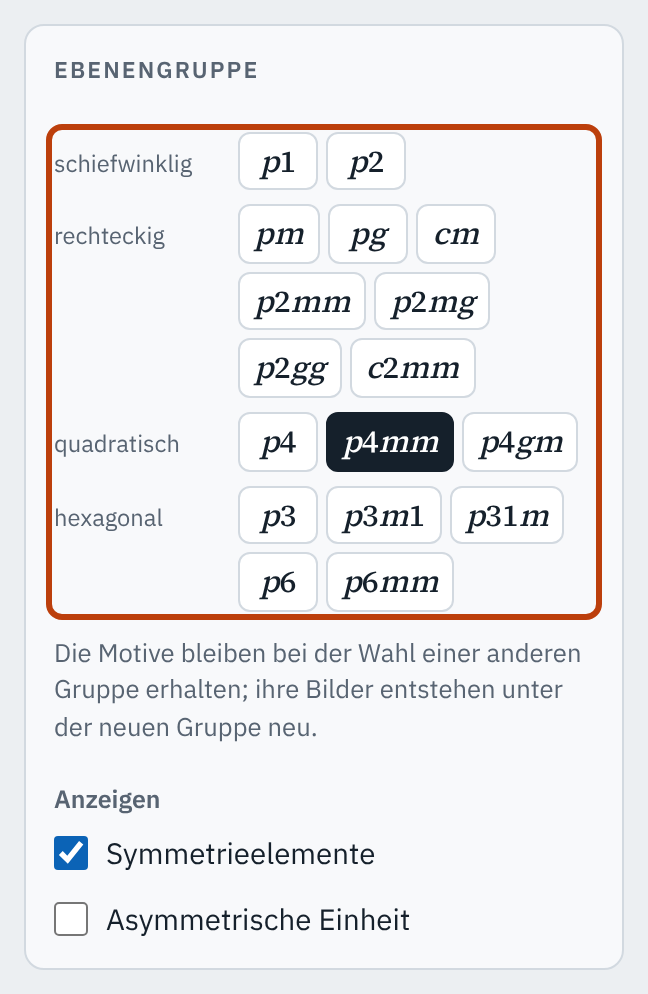
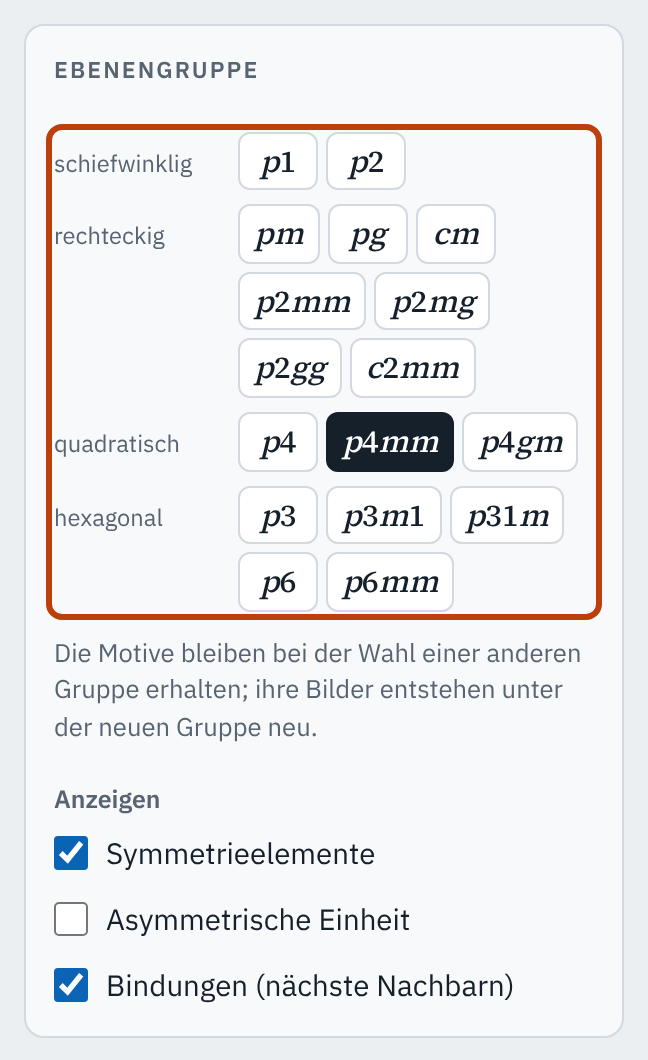
Bindungen (nächste Nachbarn) in „Muster entwerfen“ (Zu #136) (#148)
* Bindungen (nächste Nachbarn) in „Muster entwerfen“ (Zu #136)

Der Schalter aus „Gitter und Basis“ gilt auch im Entwurf: Linien zwischen
Atomen im kleinsten Abstand, über alle Bilder der Gruppe. Link-Schlüssel
`bind`, Startwert an; Übergang übernimmt die Wahl.

Claude-Session: https://claude.ai/code/session_01L8SY943PurePAwmH3HyLcT

* Übergang übernimmt die Wahl „Bindungen“ aus „Gitter und Basis“ (Review #148)

Claude-Session: https://claude.ai/code/session_01L8SY943PurePAwmH3HyLcT

---------

Changed region(s): [[0.0617, 0.0624, 0.9259, 0.9668], [0.0926, 0.4054, 0.2778, 0.5302], [0.0926, 0.2183, 0.2778, 0.2495]]

diff --git a/js/struktur-ui.js b/js/struktur-ui.js
@@ -84,8 +84,8 @@ export function strukturUI({ z, farben, aktualisieren, svgPunkt, coarse }) {
     const M = metrik(en());
     return en().basis.flatMap((e, k) => bilderMitOperation(g, M, e).map((b) => ({ ...b, k })));
   }
-  /** Gezeichnete Struktur: im Entwurf die Bahnen der Vertreter ausgeschrieben, ohne Bindungen (die gehören zur Struktur). */
-  const gezeigt = () => (istEntwurf() ? { ...en(), bindungen: false, basis: motive().map((m) => m.bild) } : { ...st(), basis: motive().map((m) => m.bild) });
+  /** Gezeichnete Struktur: im Entwurf die Bahnen der Vertreter ausgeschrieben (Bindungen wie in „Gitter und Basis“ zwischen den Atomen). */
+  const gezeigt = () => (istEntwurf() ? { ...en(), basis: motive().map((m) => m.bild) } : { ...st(), basis: motive().map((m) => m.bild) });
   /** Ergebnis, das statt der Bestimmung gilt: im Entwurf die gewählte Gruppe, sonst undefined (bestimmen). @returns {import('./bestimmung.js').Bestimmung | undefined} */
   const gewaehlteGruppe = () => (istEntwurf() ? festeBestimmung(en()) : undefined);
   /**
@@ -99,8 +99,8 @@ export function strukturUI({ z, farben, aktualisieren, svgPunkt, coarse }) {
     /** @type {Vec2} */
     const mitte = i !== null && basis[i] ? /** @type {Vec2} */ (basis[i].p.map(mod1)) : [0.5, 0.5];
     const gemeinsam = { farben: z.farben, fuell: z.aeFuell, lupe: z.lupe ? mitte : null };
-    // Entwurf: die Zelle ist die konventionelle (immer eingezeichnet), keine Bindungen
-    if (istEntwurf()) return { elemente: en().elemente, zelle: true, ae: en().ae, bindungen: false, ...gemeinsam };
+    // Entwurf: die Zelle ist die konventionelle (immer eingezeichnet)
+    if (istEntwurf()) return { elemente: en().elemente, zelle: true, ae: en().ae, bindungen: en().bindungen, ...gemeinsam };
     const s = st();
     return { elemente: s.elemente, zelle: s.zelle, ae: s.ae, bindungen: s.bindungen, ...gemeinsam };
   }
@@ -184,6 +184,7 @@ export function strukturUI({ z, farben, aktualisieren, svgPunkt, coarse }) {
     } else {
       eingabe('e-elemente').checked = en().elemente;
       eingabe('e-ae').checked = en().ae;
+      eingabe('e-bindungen').checked = en().bindungen;
     }
     eingabe('s-einrasten').checked = rasten;
     for (const [id, w] of [['s-werkzeug-verschieben', 'verschieben'], ['s-werkzeug-hinzufuegen', 'hinzufuegen'], ['s-werkzeug-zeichnen', 'zeichnen'], ['s-werkzeug-radieren', 'radieren']]) $(id).setAttribute('aria-pressed', String(werkzeug === w));
@@ -533,7 +534,7 @@ export function strukturUI({ z, farben, aktualisieren, svgPunkt, coarse }) {
     for (const [id, feld] of /** @type {[string, 'elemente' | 'zelle' | 'ae' | 'bindungen'][]} */ ([['s-elemente', 'elemente'], ['s-zelle', 'zelle'], ['s-ae', 'ae'], ['s-bindungen', 'bindungen']])) {
       $(id).addEventListener('change', () => { st()[feld] = eingabe(id).checked; aktualisieren(); });
     }
-    for (const [id, feld] of /** @type {[string, 'elemente' | 'ae'][]} */ ([['e-elemente', 'elemente'], ['e-ae', 'ae']])) {
+    for (const [id, feld] of /** @type {[string, 'elemente' | 'ae' | 'bindungen'][]} */ ([['e-elemente', 'elemente'], ['e-ae', 'ae'], ['e-bindungen', 'bindungen']])) {
       $(id).addEventListener('change', () => { en()[feld] = eingabe(id).checked; aktualisieren(); });
     }
     $('s-einrasten').addEventListener('change', () => { rasten = eingabe('s-einrasten').checked; aktualisieren(); });
@@ -620,7 +621,7 @@ export function strukturUI({ z, farben, aktualisieren, svgPunkt, coarse }) {
     $('s-weiter').addEventListener('click', () => {
       const u = uebernahme();
       if ('grund' in u) return;
-      z.entwurf = { ...u.struktur, striche: [], elemente: en().elemente, ae: en().ae }; verlauf = [];
+      z.entwurf = { ...u.struktur, striche: [], elemente: en().elemente, ae: en().ae, bindungen: st().bindungen }; verlauf = [];
       umstellung = u.umstellung; z.modus = 'entwurf'; werkzeug = 'verschieben';
       aktualisieren();
     });

diff --git a/js/zustand.js b/js/zustand.js
@@ -21,7 +21,7 @@ import { gruppe } from './symmetrie.js';
  * Entwurf im Modus „Muster entwerfen“ (#136): die Ebenengruppe (immer fest; ein eigenes Feld, nicht `gruppe` von
  * „Ebenengruppen“), das Gitter im System der Gruppe und je Bahn ein Vertreter (bahnen.js); elemente und ae sind
  * die Anzeigen von Tafel A.
- * @typedef {Gitter & { gruppe: string, basis: Basiseintrag[], striche: Strich[], elemente: boolean, ae: boolean }} EntwurfZustand
+ * @typedef {Gitter & { gruppe: string, basis: Basiseintrag[], striche: Strich[], elemente: boolean, ae: boolean, bindungen: boolean }} EntwurfZustand
  */
 /**
  * Zustand der App (Felder siehe startzustand()).
@@ -108,7 +108,7 @@ export const ENTWURF_START = 'p4mm';
 /** Entwurf im Modus „Muster entwerfen“: leer, in der Gruppe ENTWURF_START mit dem Startgitter ihres Systems. @param {string} [sym] @returns {EntwurfZustand} */
 export function entwurfStart(sym = ENTWURF_START) {
   const gi = GITTER_START[systemVon(sym)];
-  return { gruppe: sym, ba: gi.ba, gamma: gi.gamma, basis: [], striche: [], elemente: true, ae: false };
+  return { gruppe: sym, ba: gi.ba, gamma: gi.gamma, basis: [], striche: [], elemente: true, ae: false, bindungen: true };
 }
 
 /**
@@ -442,7 +442,7 @@ export function pruefeEntwurf(en) {
   const start = GITTER_START[systemVon(sym)];
   const ba = begrenzt(en.ba, STRUKTUR_BEREICH.ba) ?? start.ba; const gamma = begrenzt(en.gamma, STRUKTUR_BEREICH.gamma) ?? start.gamma;
   const gi = gitterZurGruppe(ba, gamma, sym) ?? start;
-  return { gruppe: sym, ba: gi.ba, gamma: grad(gi.gamma), basis: pruefeBasis(en.basis, bahnGewicht(sym)), striche: pruefeStriche(en.striche), elemente: en.elemente !== false, ae: en.ae === true };
+  return { gruppe: sym, ba: gi.ba, gamma: grad(gi.gamma), basis: pruefeBasis(en.basis, bahnGewicht(sym)), striche: pruefeStriche(en.striche), elemente: en.elemente !== false, ae: en.ae === true, bindungen: en.bindungen !== false };
 }
 
 /** @type {[string, StrukturSchalterfeld][]} */
@@ -469,7 +469,7 @@ function strukturHash(z, q) {
 
 /**
  * Link-Adresse im Modus „Muster entwerfen“: Gruppe (g), Gitter (ba, gamma nur, wo das System sie freigibt und sie vom
- * Startgitter abweichen), Vertreter (basis, wenn es welche gibt), Anzeigen (el, ae) und „Darstellung“.
+ * Startgitter abweichen), Vertreter (basis, wenn es welche gibt), Anzeigen (el, ae, bind) und „Darstellung“.
  * @param {Zustand} z @param {URLSearchParams} q
  */
 function entwurfHash(z, q) {
@@ -479,6 +479,7 @@ function entwurfHash(z, q) {
   if (en.basis.length) q.set('basis', basisText(en.basis));
   if (en.elemente !== s0.elemente) q.set('el', B(en.elemente));
   if (en.ae !== s0.ae) q.set('ae', B(en.ae));
+  if (en.bindungen !== s0.bindungen) q.set('bind', B(en.bindungen));
   const s = startzustand();
   for (const [k, f] of GEMEINSAME_SCHALTER) if (z[f] !== s[f]) q.set(k, B(z[f]));
   if (z.zoomB !== s.zoomB) q.set('zoom', kurz(z.zoomB, 3));
@@ -552,6 +553,7 @@ function hashLesen(z, hash) {
       if (q.has('basis')) en.basis = liesBasis(/** @type {string} */ (q.get('basis'))).slice(0, Math.floor(BASIS_GRENZE / bahnGewicht(en.gruppe)));
       if (q.has('el')) en.elemente = an(q.get('el'));
       if (q.has('ae')) en.ae = an(q.get('ae'));
+      if (q.has('bind')) en.bindungen = an(q.get('bind'));
     }
     for (const [k, f] of GEMEINSAME_SCHALTER) if (q.has(k)) z[f] = an(q.get(k));
     en.striche = pruefeStriche(z.entwurf?.striche);

diff --git a/js/hilfetexte.js b/js/hilfetexte.js
@@ -22,6 +22,7 @@ export const TIPS = {
   'e-picker': 'Ebenengruppe des Entwurfs wählen. Die Motive bleiben erhalten, ihre Bilder entstehen unter der neuen Gruppe neu; das Gitter bleibt, wenn es zum Kristallsystem passt, sonst gilt dessen Startgitter. Gesperrt sind Gruppen, mit denen es mehr als 48 Bilder würden.',
   'e-elemente': 'Symmetrieelemente der gewählten Gruppe über dem Entwurf.',
   'e-ae': 'Asymmetrische Einheit der gewählten Gruppe.',
+  'e-bindungen': 'Linien zwischen nächsten Nachbarn: zwischen Atomen, deren Abstand der kleinste Atomabstand im Muster ist (bis 5 % mehr). Hilft, ein Gitter gezielt aufzubauen. Nur für das Motiv „Atom“.',
   's-weiter': 'Die Struktur mit der bestimmten Gruppe in den Modus „Muster entwerfen“ übernehmen (umgerechnet auf die Zelle und den Ursprung nach ITA). Gruppe und Zelle bleiben dort fest; der bisherige Entwurf geht verloren, einen Weg zurück gibt es nicht.',
   's-entfernen': 'Das gewählte Motiv aus der Basis entfernen; im Entwurf seine ganze Bahn.',
   's-einrasten': 'Beim Ziehen springen die Koordinaten auf Vielfache von 1/12 (darunter ½, ⅓, ¼), die Drehung auf Vielfache von 15°. Im Entwurf rastet ein Motiv zuerst auf spezielle Lagen (Drehpunkte, Spiegellinien) ein.',
@@ -73,7 +74,7 @@ export const SECTIONS = [
   { heading: '#sec-zeichnen > summary', intro: 'Striche statt Motive: Zeichnen Sie etwas, die Gruppe macht daraus ein Muster. Striche und Motive lassen sich kombinieren; Striche haben die Farbe einer Atomsorte, Spiegelbilder dieselbe.', ids: ['s-werkzeug-zeichnen', 's-werkzeug-radieren', 'zeichnen-zurueck', 'zeichnen-loeschen'] },
   { heading: '#sec-sgitter > summary', intro: 'Gitter der gegebenen Zelle; in „Gitter und Basis“ ohne Bindung an ein Kristallsystem, im Entwurf innerhalb des Kristallsystems der Gruppe.', ids: ['s-ba', 's-gamma', 's-metrik'] },
   { heading: '#sec-weiter > summary', intro: 'Eine Struktur aus „Gitter und Basis“ als Muster weiterbearbeiten, in der bestimmten Gruppe.', ids: ['s-weiter'] },
-  { heading: '#ctl-entwurf > h2', intro: 'Muster entwerfen: Man wählt die Gruppe, setzt Motive und zeichnet Striche; jedes erscheint mit allen Operationen der Gruppe. Gruppe und Zelle bleiben fest, die App bestimmt die Symmetrie nicht.', ids: ['e-picker', 'e-elemente', 'e-ae'] },
+  { heading: '#ctl-entwurf > h2', intro: 'Muster entwerfen: Man wählt die Gruppe, setzt Motive und zeichnet Striche; jedes erscheint mit allen Operationen der Gruppe. Gruppe und Zelle bleiben fest, die App bestimmt die Symmetrie nicht.', ids: ['e-picker', 'e-elemente', 'e-ae', 'e-bindungen'] },
   { heading: '#ctl-gruppe > h2', intro: 'Gruppe antippen: Links erscheint das Symmetriegerüst einer Elementarzelle, rechts ein Ausschnitt des Musters. Das Objekt lässt sich im Symmetriegerüst ziehen.', ids: ['opt-elemente', 'opt-objekt', 'opt-ae', 'opt-zellen', 'seg-form', 'seg-ornament', 'opt-einrasten', 'opt-orbit'] },
   { heading: '#sec-schritte > summary', intro: 'Wie erzeugen die Symmetrieoperationen aus einem Objekt das ganze Muster? Hier wirken sie einzeln.', ids: ['opt-schritt', 'schritt-regler', 'schritt-zurueck', 'schritt-vor', 'schritt-abspielen'] },
   { heading: '#sec-aufbau > summary', intro: 'Welche Symmetrieelemente folgen zwangsläufig aus wenigen Erzeugenden, und aus welchen Operationen entsteht ein bestimmtes Element?', ids: ['opt-aufbau', 'aufbau-schritt', 'aufbau-zurueck', 'aufbau-vor', 'opt-herkunft'] },

diff --git a/index.html b/index.html
@@ -148,6 +148,7 @@ body.modus-entwurf.zeichnen #bild-a, body.modus-entwurf.radieren #bild-a { curso
         <p class="group-title">Anzeigen</p>
         <label class="check"><input type="checkbox" id="e-elemente">Symmetrieelemente</label>
         <label class="check"><input type="checkbox" id="e-ae">Asymmetrische Einheit</label>
+        <label class="check"><input type="checkbox" id="e-bindungen">Bindungen (nächste Nachbarn)</label>
       </section>
     </div>
 

diff --git a/CHANGELOG.md b/CHANGELOG.md
@@ -8,6 +8,7 @@ Das Format folgt [Keep a Changelog](https://keepachangelog.com/de/1.1.0/), die V
 
 ### Hinzugefügt
 
+- **Bindungen (nächste Nachbarn) im Modus „Muster entwerfen“** (#136, Wunsch von Thomas, 12.11.2026; kein Bruch von Link und Speicher: neues Feld, Startwert an): Der Schalter aus „Gitter und Basis“ steht jetzt auch unter „Anzeigen“ im Entwurf. Er verbindet Atome (Motiv „Atom“) im kleinsten Abstand, über alle Bilder der Gruppe, in Tafel A und im Muster; so lassen sich bestimmte Gitter (Graphen, Kagome …) gezielt aufbauen. Der Übergang aus „Gitter und Basis“ übernimmt die Wahl. Link-Schlüssel `bind` (nur bei `0` geschrieben). Skript- und Quizbilder zeichnen weiter ohne Bindungen. Text des Tooltips neu, von Thomas zu prüfen.
 - **Zeichnen im Modus „Muster entwerfen“** (#136, Schritt 5; kein Bruch von Link und Speicher: neues Feld mit Startwert): Die Werkzeuge „Zeichnen“ und „Radieren“, „Rückgängig“ und „Alles löschen“ stehen jetzt dort, mit Motiven kombinierbar. Jeder Strich hat eine Farbe aus derselben Farbwahl wie die Motive (Atomsorte; Spiegelbilder ohne eigene Farbe), beim Radieren behalten die Teile ihre Farbe. Die Striche stehen im Browserspeicher, nicht in der Link-Adresse. Texte (Hinweise, Tooltips, ⓘ-Erklärung) neu, von Thomas zu prüfen.
 - **Erste Schritte und Experimente für „Muster entwerfen“** (#136, Schritt 4c): drei Schritte, dazu „Motiv auf einem Drehpunkt“ (ersetzt das gleichnamige aus „Gitter und Basis“, das mit „Symmetrie festhalten“ entfiel) und „Dasselbe Motiv, andere Gruppe“. Neue Vorgabe „Ranken“ (*p*6) unter „Muster“.
 - **Ornamente als Motive, gebündelte Motivauswahl** (#136, Schritt 4a; #104; kein Bruch von Link und Speicher): Blatt, Tropfen und Ranke gibt es jetzt auch als Motive in „Gitter und Basis“ (chiral wie das Fähnchen, also auch gespiegelt setzbar; jedes allein hat die eigene Symmetrie 1, ein Test prüft es). Die Auswahl ist kein Menü mehr, sondern je eine Zeile nach eigener Symmetrie mit kleinen Bildern: Atom, ohne Eigensymmetrie, nur Drehsymmetrie, mit Spiegelsymmetrie; Name und Punktgruppe stehen im Tooltip und im Namen des Knopfes für Hilfstechnik, das ⓘ der Basis nennt die Zeilen. Als Form des Objekts in „Ebenengruppen“ bleiben die Ornamente vorerst (sie gehen erst mit dem Umbau des Skripts, Teil 4c).

diff --git a/CLAUDE.md b/CLAUDE.md
@@ -231,6 +231,7 @@ für diese App gilt.
   - **Ungültig aus Link oder Speicher** (Leitfaden Abschn. 5.2: nicht umdeuten): unbekannte oder fehlende Gruppe `g` ergibt den
     leeren Startentwurf (auch Vertreter und Gitter des Links entfallen); ein Gitter, das nicht zum System der Gruppe passt,
     das Startgitter des Systems (Vertreter und Anzeigen bleiben). Link und Speicher prüfen gleich (`pruefeEntwurf`).
+  - **Bindungen** (Thomas, 12.11.2026): Der Schalter „Bindungen (nächste Nachbarn)“ aus „Gitter und Basis“ gilt auch im Entwurf (`EntwurfZustand.bindungen`, Startwert an wie dort; Link `bind`, nur bei `0`). Grund: Ohne die Linien ist es schwer, bestimmte Gitter selbst zu entwerfen. Wahl beim Umsetzen: gleiche Rechnung (`bindungenBasis`) auf den ausgeschriebenen Bildern, also zwischen Atomen aller Bilder der Gruppe; der Übergang aus „Gitter und Basis“ übernimmt die Wahl; Skript- und Quizbilder (`quiz-bild.js`, `skript.js`) geben `bindungen: false` weiter ausdrücklich an. Der Browserlauf prüft es (Abschnitt 8).
   - **Zeichnen** (Schritt 5, umgesetzt am 12.11.2026; Wahl beim Umsetzen, von Thomas zu bestätigen): „Selbst zeichnen“ ist aus
     „Ebenengruppen“ in den Entwurf gezogen (Konzept, Abschn. 3.1); dort entfallen die Zustandsfelder `zeichnen`, `radieren`,
     `striche`, die Bedienelemente und der Abschnitt. Dort bleibt nur die gefüllte asymmetrische Einheit (`zeichnungSVG`).

diff --git a/README.md b/README.md
@@ -132,6 +132,7 @@ Im Modus „Muster entwerfen“ (`m=entwurf`; ohne gültige Gruppe `g` der leere
 | `basis` | je Bahn ein Vertreter, die App schreibt die Bilder aus (Format wie in „Gitter und Basis“); höchstens 48 Motive ausgeschrieben, überzählige am Ende entfallen. Beispiel: `m=entwurf&g=p4mm&basis=fahne,0,1/10,1/5,0` (acht Fähnchen) | **leer** |
 | `el` | Symmetrieelemente | `0`, **`1`** |
 | `ae` | asymmetrische Einheit | **`0`**, `1` |
+| `bind` | Bindungen zwischen nächsten Nachbarn (Atome aller Bilder) | `0`, **`1`** |
 | `farb`, `mel`, `tap`, `fuell`, `lupe`, `zoom` | „Darstellung“ und Lupe wie oben; `fuell` füllt die asymmetrische Einheit der gewählten Gruppe | wie oben |
 
 
